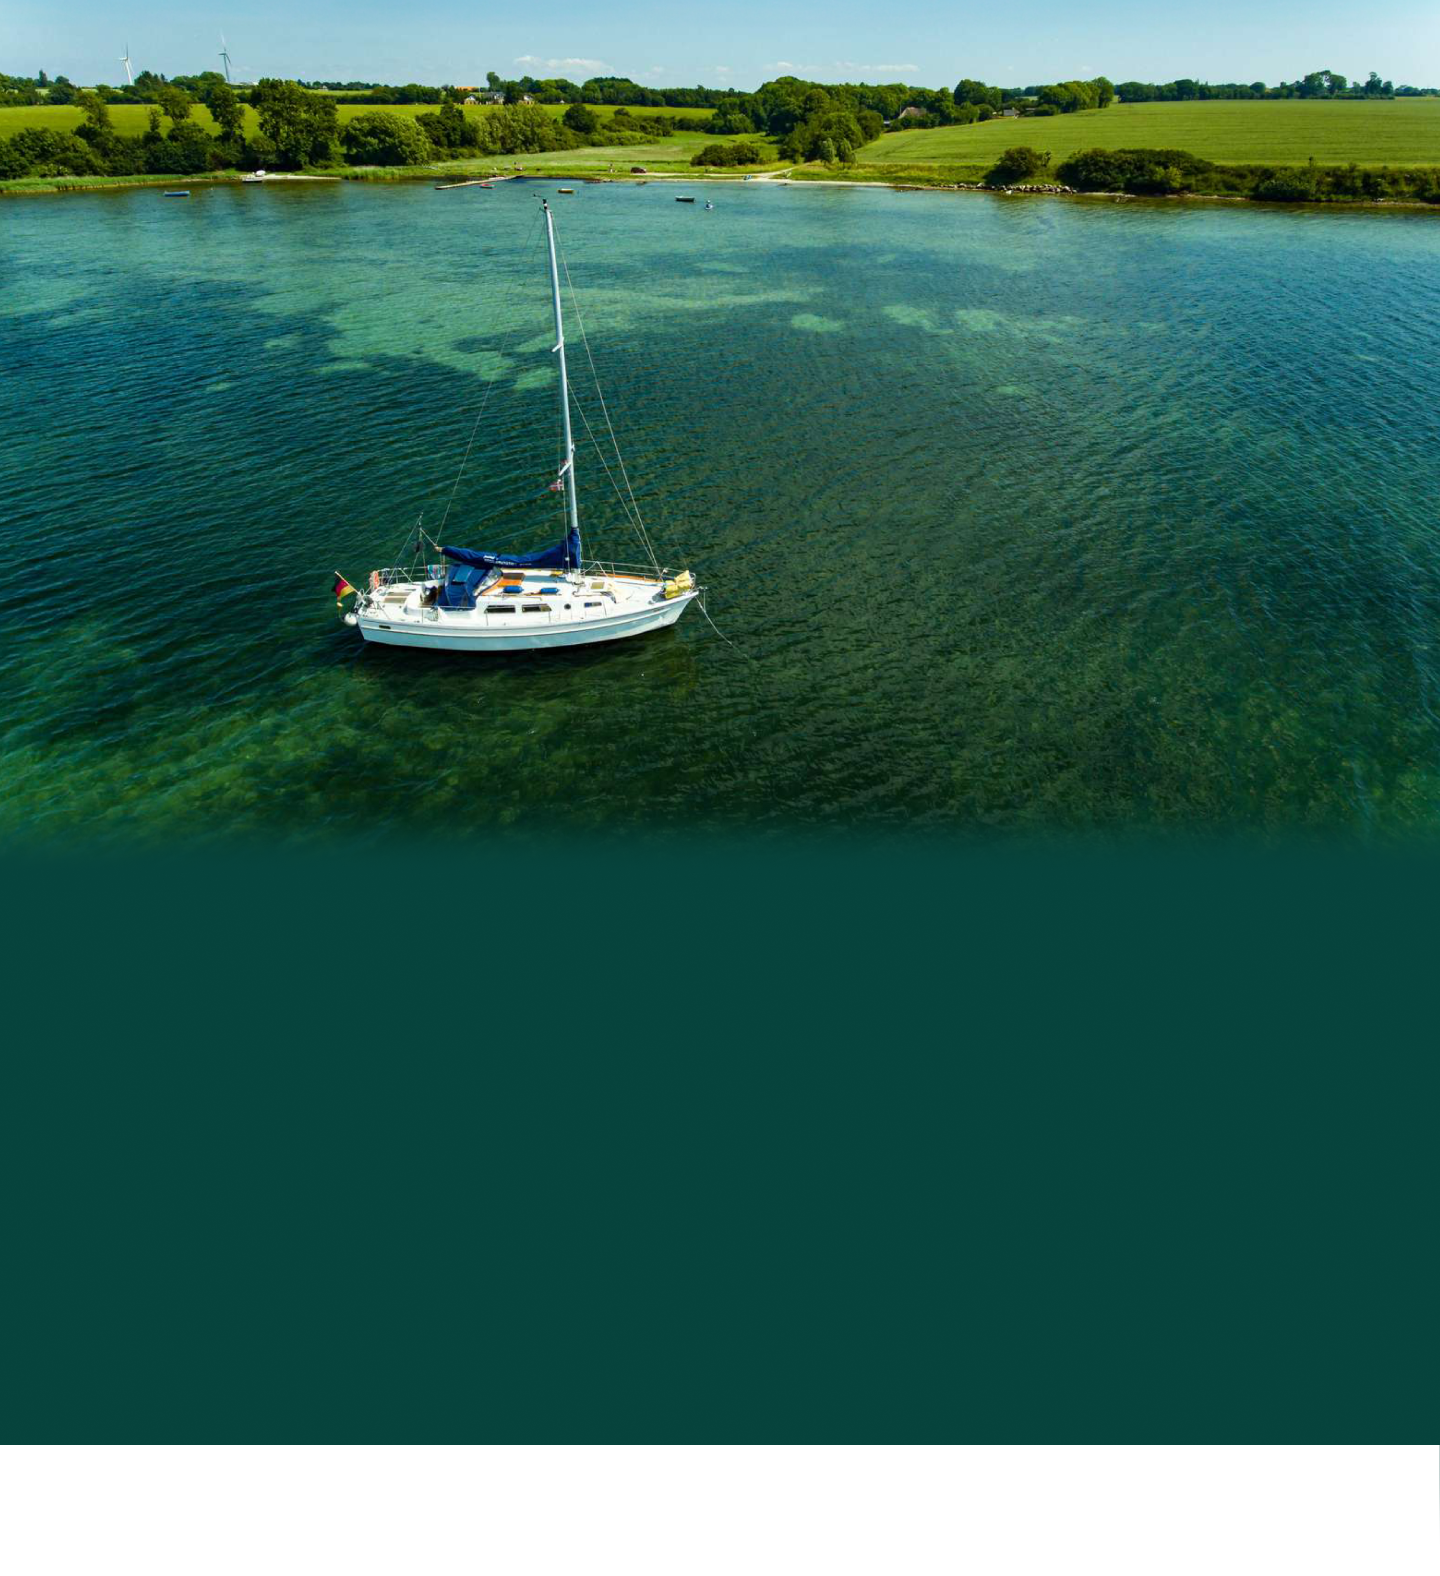
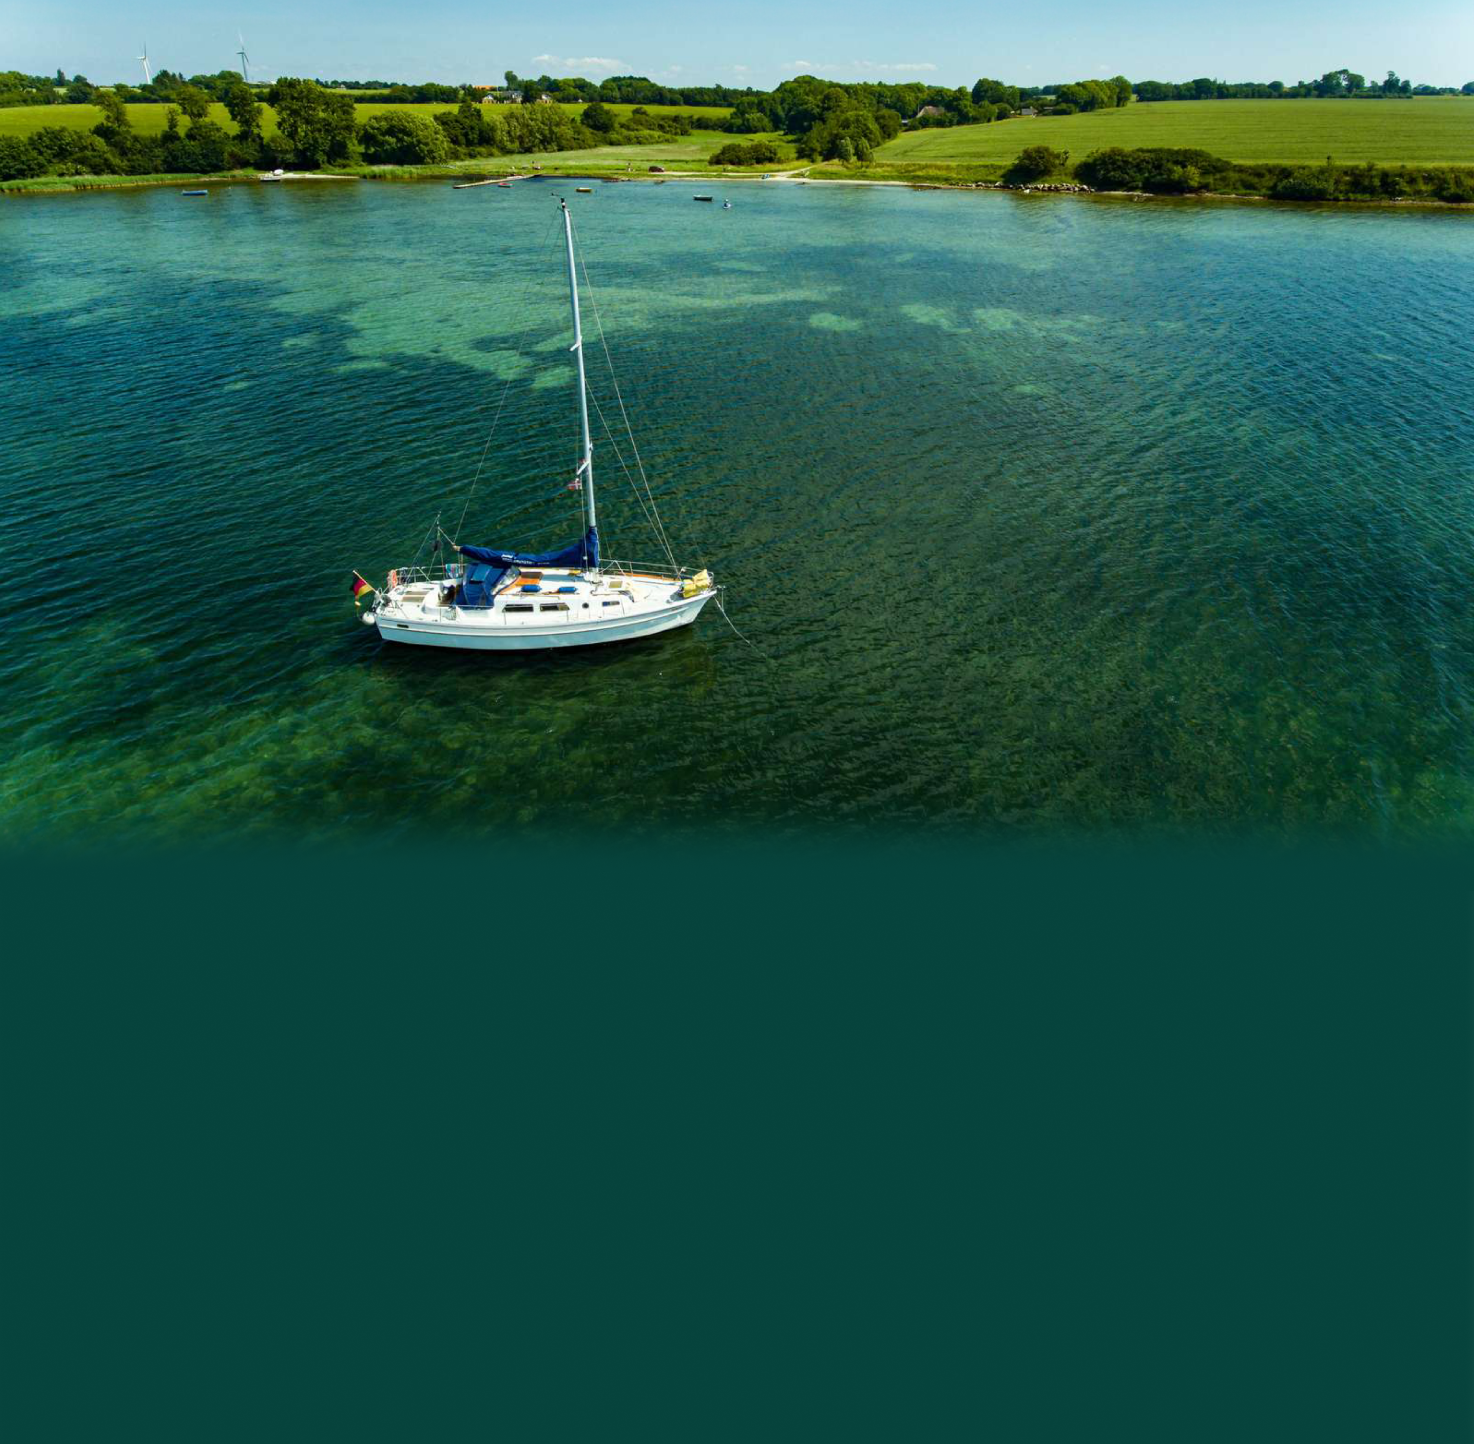
hero section, json
hero section og slider css, opsæt json filer

diff --git a/index.html b/index.html
@@ -43,7 +43,7 @@
                     <a href="#" class="menuLink">Information</a>
                 </li>
                 <li class="menuItem">
-                    <a href="#" class="menuLink ">Børneunivers</a>
+                    <a href="boerneunivers.html" class="menuLink ">Børneunivers</a>
                 </li>
             </ul>
         </nav>
@@ -70,6 +70,7 @@
     <!-- Hero Section -->
     <section class="heroSection heroSection--home">
         <img class="heroSection__backgroundImage" src="images/hero__background--home.png" alt="greenish picture of the sea with a sailboat on it">
+        <img class="heroSection__backgroundImage--mobile" src="images/hero__background--homeMobile.png" alt="">
         <section class="socialMedia">
             <span class="socialMedia__line"></span>
             <svg class="socialMedia__instagram icon icon__instagram" width="37" height="37" viewBox="0 0 37 37" fill="none" xmlns="http://www.w3.org/2000/svg">
@@ -105,52 +106,68 @@
             <p class="imageCredit">Foto: Kim Toft Jørgensen</p>
         </section>
         <section class="categorySlider">
-            <article class="categorySlider__card">
+            <section class="slider__arrows">
+                <svg class="slider__arrow slider__arrow--previous" width="35" height="35" viewBox="0 0 35 35" fill="none" xmlns="http://www.w3.org/2000/svg">
+                    <circle opacity="0.64" cx="17.5" cy="17.5" r="16.5" transform="rotate(90 17.5 17.5)" stroke="white" stroke-width="2"/>
+                    <g opacity="0.7">
+                        <line x1="21.2247" y1="8.66145" x2="11.5695" y2="18.3166" stroke="white" stroke-width="2"/>
+                        <line y1="-1" x2="13.6545" y2="-1" transform="matrix(-0.707107 -0.707107 -0.707107 0.707107 20.5176 27.2646)" stroke="white" stroke-width="2"/>
+                    </g>
+                </svg>
+                <svg class="slider__arrow slider__arrow--next" width="35" height="35" viewBox="0 0 35 35" fill="none" xmlns="http://www.w3.org/2000/svg">
+                    <circle opacity="0.64" cx="17.5" cy="17.5" r="16.5" transform="rotate(90 17.5 17.5)" stroke="white" stroke-width="2"/>
+                    <g opacity="0.7">
+                        <line x1="21.2247" y1="8.66145" x2="11.5695" y2="18.3166" stroke="white" stroke-width="2"/>
+                        <line y1="-1" x2="13.6545" y2="-1" transform="matrix(-0.707107 -0.707107 -0.707107 0.707107 20.5176 27.2646)" stroke="white" stroke-width="2"/>
+                    </g>
+                </svg>
+            </section>
+                <article class="categorySlider__card">
                 <img class="categorySlider__image" src="images/category__information.jpeg" alt="a questionmark on an island">
                 <p class="imageCredit">Foto: qimono fra pixabay</p>
-                <p class="categorySlider__title">Information</p>
+                <h6 class="categorySlider__title">Information</h6>
                 <p class="categorySlider__description">Se alle aktiviteter, begivenheder og oplevelser på EN side.</p>
             </article>
             <article class="categorySlider__card">
                 <img class="categorySlider__image" src="images/category__historie.jpeg" alt="a picture of Gråsten slot">
                 <p class="imageCredit">Foto: James Cripps</p>
-                <p class="categorySlider__title">Historie & Kultur</p>
+                <h6 class="categorySlider__title">Historie & Kultur</h6>
                 <p class="categorySlider__description">Udforsk områdets smukkeste kultursteder og lære om Danmarks historie.</p>
             </article>
             <article class="categorySlider__card">
                 <img class="categorySlider__image" src="images/category__natur.jpeg" alt="a picture of a forest at the water">
                 <p class="imageCredit">Foto: Destination Sønderjylland</p>
-                <p class="categorySlider__title">Natur</p>
+                <h6 class="categorySlider__title">Natur</h6>
                 <p class="categorySlider__description">Opdag de skønneste strande og oplev den dejlige natur i skoven eller på stier.</p>
             </article>
             <article class="categorySlider__card categorySlider__card--focus">
                 <img class="categorySlider__image" src="images/category__alleKategorier.jpeg" alt="a picture of Sønderborg with water and the alsik hotel">
                 <p class="imageCredit">Foto: Kim Toft Jørgensen</p>
-                <p class="categorySlider__title --focus">Alle kategorier</p>
-                <p class="categorySlider__description--focus">Få en god overblik over alle ting kan lave mens du er på ferie.</p>
+                <h6 class="categorySlider__title">Alle kategorier</h6>
+                <p class="categorySlider__description">Få en god overblik over alle ting kan lave mens du er på ferie.</p>
             </article>
             <article class="categorySlider__card">
                 <img class="categorySlider__image" src="images/category__overnatning.jpeg" alt="a picture of an old house at a small lake in the middle of nature">
                 <p class="imageCredit">Foto: Destination Sønderjylland</p>
-                <p class="categorySlider__title">Overnatning</p>
+                <h6 class="categorySlider__title">Overnatning</h6>
                 <p class="categorySlider__description">Fra hoteller til feriebolig og shelter - alt hvor du kan sove mens du er på ferie.</p>
             </article>
             <article class="categorySlider__card">
                 <img class="categorySlider__image" src="images/category__aktivSammen.jpeg" alt="a picture of family with bikes at the city harbour">
                 <p class="imageCredit">Foto: Destination Sønderjylland</p>
-                <p class="categorySlider__title">Aktiv Sammen</p>
+                <h6 class="categorySlider__title">Aktiv Sammen</h6>
                 <p class="categorySlider__description">Vil du have en aktiv ferie? Opdag sportaktiviteter, forlystelsesparker og mere.</p>
             </article>
             <article class="categorySlider__card">
                 <img class="categorySlider__image" src="images/category__detSker.jpeg" alt="a picture of a man while 'ringridning', dressed as in old times">
                 <p class="imageCredit">Foto: Destination Sønderjylland</p>
-                <p class="categorySlider__title">Det Sker</p>
+                <h6 class="categorySlider__title">Det Sker</h6>
                 <p class="categorySlider__description">Alle begivenheder i området i din ferieuge!</p>
             </article>
             <article class="categorySlider__card">
                 <img class="categorySlider__image" src="images/category__madoplevelser.png" alt="a picture of a pizza">
                 <p class="imageCredit">Foto: Ivana Tomásková fra pixabay</p>
-                <p class="categorySlider__title">Overnatning</p>
+                <h6 class="categorySlider__title">Overnatning</h6>
                 <p class="categorySlider__description">Fra hoteller til feriebolig og shelter - alt hvor du kan sove mens du er på ferie.</p>
             </article>
         </section>
@@ -273,7 +290,7 @@
                     <p class="imageCredit">Foto: Kim Toft Jørgensen</p>
                     <section class="productCard__firstLine">
                         <h6 class="productCard__title">Ringriderfest</h6>
-                        <svg class="productCard__wishlist icon icon__heart" fill="#000000" height="800px" width="800px" version="1.1" id="Capa_1" xmlns="http://www.w3.org/2000/svg" xmlns:xlink="http://www.w3.org/1999/xlink" 
+                        <svg class="productCard__addToWishlist icon icon__heart" fill="#000000" height="800px" width="800px" version="1.1" id="Capa_1" xmlns="http://www.w3.org/2000/svg" xmlns:xlink="http://www.w3.org/1999/xlink" 
                             viewBox="0 0 471.701 471.701" xml:space="preserve">
                             <g>
                                 <path d="M433.601,67.001c-24.7-24.7-57.4-38.2-92.3-38.2s-67.7,13.6-92.4,38.3l-12.9,12.9l-13.1-13.1
@@ -304,7 +321,7 @@
                     <p class="imageCredit">Foto: Kim Toft Jørgensen</p>
                     <section class="productCard__firstLine">
                         <h6 class="productCard__title">Ringriderfest</h6>
-                        <svg class="productCard__wishlist icon icon__heart" fill="#000000" height="800px" width="800px" version="1.1" id="Capa_1" xmlns="http://www.w3.org/2000/svg" xmlns:xlink="http://www.w3.org/1999/xlink" 
+                        <svg class="productCard__addToWishlist icon icon__heart" fill="#000000" height="800px" width="800px" version="1.1" id="Capa_1" xmlns="http://www.w3.org/2000/svg" xmlns:xlink="http://www.w3.org/1999/xlink" 
                             viewBox="0 0 471.701 471.701" xml:space="preserve">
                             <g>
                                 <path d="M433.601,67.001c-24.7-24.7-57.4-38.2-92.3-38.2s-67.7,13.6-92.4,38.3l-12.9,12.9l-13.1-13.1
@@ -335,7 +352,7 @@
                     <p class="imageCredit">Foto: Kim Toft Jørgensen</p>
                     <section class="productCard__firstLine">
                         <h6 class="productCard__title">Ringriderfest</h6>
-                        <svg class="productCard__wishlist icon icon__heart" fill="#000000" height="800px" width="800px" version="1.1" id="Capa_1" xmlns="http://www.w3.org/2000/svg" xmlns:xlink="http://www.w3.org/1999/xlink" 
+                        <svg class="productCard__addToWishlist icon icon__heart" fill="#000000" height="800px" width="800px" version="1.1" id="Capa_1" xmlns="http://www.w3.org/2000/svg" xmlns:xlink="http://www.w3.org/1999/xlink" 
                             viewBox="0 0 471.701 471.701" xml:space="preserve">
                             <g>
                                 <path d="M433.601,67.001c-24.7-24.7-57.4-38.2-92.3-38.2s-67.7,13.6-92.4,38.3l-12.9,12.9l-13.1-13.1

diff --git a/style.css b/style.css
@@ -17,11 +17,20 @@
     --textKids__accent--yellow: #ef9906;
     --textKids__accent--pink: #fb9da4;
 
+    /* gradients */
+    --gradient__blue: linear-gradient(136deg, rgba(87, 235, 255, 100%) 0%, rgba(0, 119, 228, 100%) 100%);
+    --gradient__orange: linear-gradient(180deg, rgba(249, 211, 10, 100%) 0%, rgba(237, 144, 5, 100%) 100%);
+    --gradient__green: linear-gradient(136deg, rgba(178, 232, 90, 100%) 0%, rgba(107, 176, 47, 100%) 100%);
+
     --borderRadius__S: 8px;
     --borderRadius__M: 12px;
 
     /* spacing */
+    --spacing__4: 4px;
+    --spacing__8: 8px;
+    --spacing__12: 12px;
     --spacing__16: 16px;
+    --spacing__20: 20px;
     --spacing__32: 32px;
     --spacing__48: 48px;
     --spacing__92: 92px;
@@ -39,6 +48,9 @@ p {
     line-height: 24px;
 }
 
+h6 {
+    font-size: 1.25rem;
+}
 /* CSS for the header and navbar, with responsive design
  when the container gets lower than 745px the navbar will collapse into a burgermenu instead */
 
@@ -111,6 +123,7 @@ p {
 .menuLink--active {
     text-decoration: underline;
     color: var(--text__accent--primary);
+    
 }
 .hamburger {
     display: none;
@@ -168,7 +181,10 @@ p {
 }
 .heroSection__backgroundImage {
     width: 100%;
-    z-index: -2;
+    z-index: -1;
+}
+.heroSection__backgroundImage--mobile {
+    display: none;
 }
 /* SoMe section */
 .socialMedia {
@@ -199,6 +215,7 @@ p {
     color: var(--text__secondary);
 }
 .heroSection__title {
+    background: var(--blue);
     font-size: 4.5rem;
     line-height: 5.5rem;
     font-weight: 800;
@@ -206,17 +223,24 @@ p {
 }
 .imageCredit {
     font-size: 8px;
+    line-height: 12px;
+    margin-inline-start: 4px
 }
 
 /* ------------ CategorySlider ------------ */
 .categorySlider {
 	width: 100%;
+    height: calc(683px + 40px); /* card--focus height + the pixels, the card needed to be pushed upwards (read card--focus)*/
 	display: flex;
-	gap: 20px;
+    align-items: center;
 	color: var(--text__noFocus);
-	overflow-x: scroll;
-	position: absolute;
-	bottom: 20%;
+	overflow-x: visible;
+    position: absolute;
+    transform: translateX(-17%); /* SKAL FJERNES IGEN*/
+    margin-block-start: -800px;
+}
+.categorySlider__card {
+    margin-inline: calc(var(--spacing__20) / 2);
 }
 .categorySlider__image {
 	border-radius: var(--borderRadius__M);
@@ -225,14 +249,25 @@ p {
 	object-fit: cover; 
 	box-shadow: -4px 4px 10px 0px rgba(0,0,0,0.45);
 }
+.categorySlider__title {
+    margin-block-start: var(--spacing__12);
+    margin-block-end: var(--spacing__4);
+    margin-inline-start: var(--spacing__4);
+}
 .categorySlider__description {
-	font-size: 0.75rem;
+	display: none;
+    font-size: 0.75rem;
+    line-height: 1rem;
+    margin-inline-start: var(--spacing__4);
 }
 
 .categorySlider__card--focus {
 	color: var(--text__secondary);
+    margin-inline: -50px; /* - margin, so it overlaps the other cards */
+    transform: translateY(40px); /* to get the image in the middle of the other images (different spacing, therefore is middle of the card NOT middle of the other cards and images */
+    z-index: 1;
 
-	& .categorySlider__image {
+	& .categorySlider__image {
 		height: 536px;
 		width: 328px;
 		box-shadow: 0px 0px 27px 0px rgba(0,0,0,0.77)
@@ -240,17 +275,38 @@ p {
 	& .categorySlider__title {
 		font-size: 2rem;
 	}
+    & .categorySlider__description {
+        display: block;
+        font-size: 1rem;
+        line-height: 1.25rem;
+    }
 }
 
-.heroSection__background {
-	background-color: #06433C;
-	width: 100%;
-	height: 600px;
-	z-index: -1;
-	position: absolute;
-	top: 0;
+.slider__arrows {
+    position: absolute;
+    left: 0;
+    transform: translateY(-100%) translateX(17%); /* SKAL FJERNES IGEN*/
+    display: flex;
+    justify-content: space-between;
+    width: 100%;
+}
+.slider__arrow:hover {
+    fill: white;
+}
+.slider__arrow--previous {
+    margin-inline-start: var(--spacing__20);
+}
+.slider__arrow--next {
+    margin-inline-end: var(--spacing__20);
+    transform: rotate(180deg);
+}
+.banner {
+    width: 100%;
 }
 
+img {
+    width: 100%;
+}
 /*header with headline for the page*/
 
 .childCategory__header{
